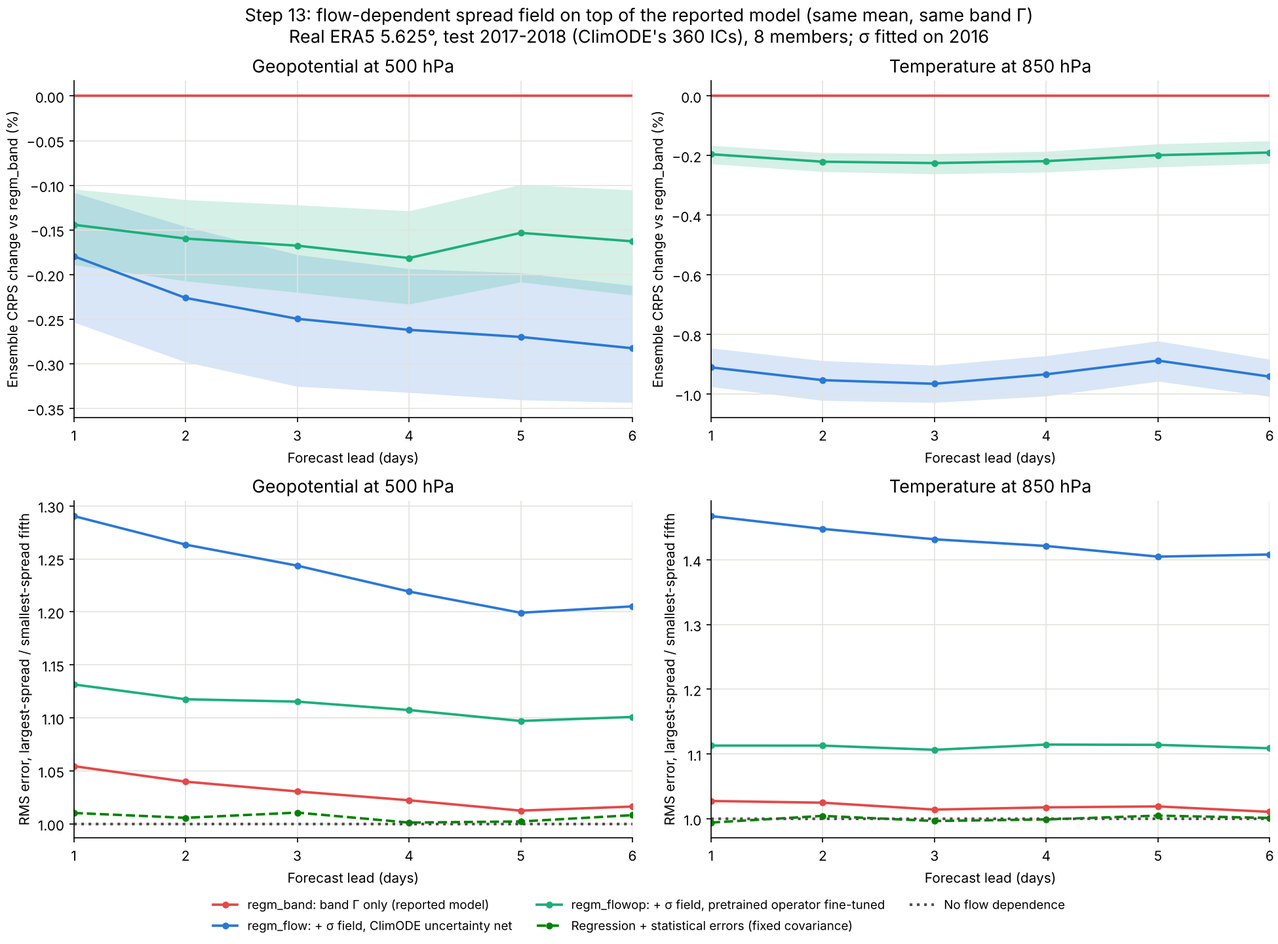
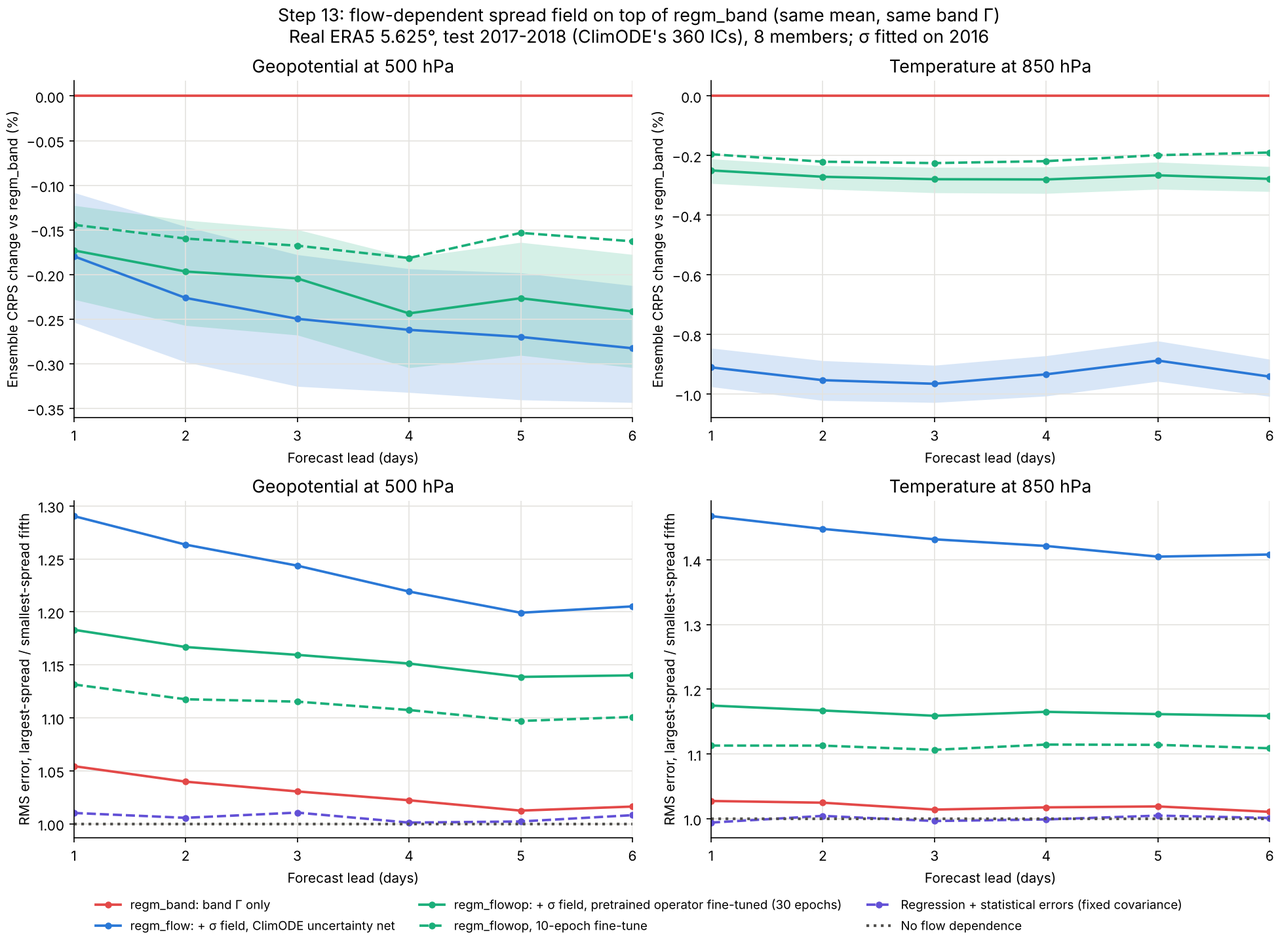
Step 13: flow-dependent spread field write-up, spread arms in the run script
docs/step13_sequence.md 4.3: regm_flow (ClimODE uncertainty net) and
regm_flowop (operator pretrained on regm_band, 10 and 30 epoch fine-tune)
against regm_band: CRPS -0.63 / -0.39 / -0.54 %, all 30 cells, error ratio
of the spread fifths z500 24 h 1.29 / 1.13 / 1.18 (regm_band 1.05).
run_step13_best.sh fits both spread fields in the calibration step
(SIGMA=1 default) and runs the flow-dependence diagnostic; runbook gains
the stage-by-stage train / calibrate / test commands.

Claude-Session: https://claude.ai/code/session_01M3qvwPDycdS2QFhYHMzru8

diff --git a/scripts/plot_step13_flowdep.py b/scripts/plot_step13_flowdep.py
@@ -4,7 +4,7 @@
     bottom   RMS error in the largest-spread fifth of cases / in the smallest-spread fifth (1 = the spread
              says nothing about the error), from scripts/diag_step13_flowdep.py --leads 24 48 72 96 120 144
 
-    python scripts/plot_step13_flowdep.py --score runs/step13/score_flowop.json \
+    python scripts/plot_step13_flowdep.py --score runs/step13/score_flowop30.json \
         --flowdep runs/step13/flowdep_all.json --out docs/step13
 """
 
@@ -24,11 +24,13 @@ from scripts.plot_step13 import GRID, LEADS_H, MUTED, SLOTS  # noqa: E402
 
 REF = "seqfm_dct_pinn_regm_band"
 LINES = [  # (arm, label, categorical slot)
-    ("seqfm_dct_pinn_regm_band", "regm_band: band Γ only (reported model)", 7),
+    ("seqfm_dct_pinn_regm_band", "regm_band: band Γ only", 7),
     ("seqfm_dct_pinn_regm_flow", "regm_flow: + σ field, ClimODE uncertainty net", 0),
-    ("seqfm_dct_pinn_regm_flowop", "regm_flowop: + σ field, pretrained operator fine-tuned", 2),
-    ("seqregress_pinn", "Regression + statistical errors (fixed covariance)", 5),
+    ("seqfm_dct_pinn_regm_flowop", "regm_flowop: + σ field, pretrained operator fine-tuned (30 epochs)", 2),
+    ("seqfm_dct_pinn_regm_flowop10", "regm_flowop, 10-epoch fine-tune", 2),
+    ("seqregress_pinn", "Regression + statistical errors (fixed covariance)", 6),
 ]
+DASHED = ("seqfm_dct_pinn_regm_flowop10", "seqregress_pinn")
 
 
 def main(argv=None):
@@ -47,11 +49,13 @@ def main(argv=None):
         vi = V.index(v)
         a_ = ax[0, col]
         a_.axhline(0, color=SLOTS[7], lw=1.8, label=LINES[0][1])
-        for arm, lab, slot in LINES[1:3]:
+        for arm, lab, slot in LINES[1:4]:
             if arm in boot:
                 b = {k: 100 * np.asarray(boot[arm]["crps"][k])[:, vi] / base[:, vi] for k in ("mean", "lo", "hi")}
-                a_.fill_between(days, b["lo"], b["hi"], color=SLOTS[slot], alpha=0.18, lw=0)
-                a_.plot(days, b["mean"], "-", color=SLOTS[slot], lw=1.8, marker="o", ms=4, label=lab)
+                if arm not in DASHED:
+                    a_.fill_between(days, b["lo"], b["hi"], color=SLOTS[slot], alpha=0.18, lw=0)
+                a_.plot(days, b["mean"], "--" if arm in DASHED else "-", color=SLOTS[slot], lw=1.8, marker="o", ms=4,
+                        label=lab)
         a_.set_title(name, fontsize=13)
         a_.set_ylabel("Ensemble CRPS change vs regm_band (%)")
         a_ = ax[1, col]
@@ -60,7 +64,7 @@ def main(argv=None):
             if arm in fd:
                 leads = [h for h in LEADS_H if f"{key}_{h}" in fd[arm]]
                 r = [fd[arm][f"{key}_{h}"]["bin_rmse"] for h in leads]
-                a_.plot(np.array(leads) / 24, [q[4] / q[0] for q in r], "--" if arm == "seqregress_pinn" else "-",
+                a_.plot(np.array(leads) / 24, [q[4] / q[0] for q in r], "--" if arm in DASHED else "-",
                         color=SLOTS[slot], lw=1.8, marker="o", ms=4, label=lab)
         a_.axhline(1, color=MUTED, ls=":", lw=2, label="No flow dependence")
         a_.set_title(name, fontsize=13)
@@ -72,7 +76,7 @@ def main(argv=None):
         for s_ in ("top", "right"):
             a_.spines[s_].set_visible(False)
     fig.legend(*ax[1, 0].get_legend_handles_labels(), loc="outside lower center", ncol=3, fontsize=9, frameon=False)
-    fig.suptitle("Step 13: flow-dependent spread field on top of the reported model (same mean, same band Γ)\n"
+    fig.suptitle("Step 13: flow-dependent spread field on top of regm_band (same mean, same band Γ)\n"
                  "Real ERA5 5.625°, test 2017-2018 (ClimODE's 360 ICs), 8 members; σ fitted on 2016", fontsize=13)
     os.makedirs(a.out, exist_ok=True)
     path = os.path.join(a.out, "fig_flowdep.png")

diff --git a/docs/step13_sequence.md b/docs/step13_sequence.md
@@ -64,7 +64,7 @@
 | 대조군 | 10단계 `PersistenceMBM` (a + b·평균 + c·x0) | 그대로 |
 | 점수 | 11단계 `climode_scores` (원저자 함수와 일치 확인됨), properscoring | u10/v10은 11단계처럼 u/v1000에서 2016년 격자점별 회귀 |
 
-스크립트: `scripts/run_step13_pinn.py`(1단계), `scripts/run_step13_seqfm.py`(2단계, `--basis dct|grid`, `--pinn`, `--save-ens`), `scripts/run_step13_operator.py`(3단계), `scripts/run_step13_guide.py`(4절 보정 가이드), `scripts/score_step13.py`(평가 축 전체), `scripts/compare_step13_climode.py`(ClimODE와 같은 초기장 짝 비교), `scripts/plot_step13.py`·`scripts/plot_step13_maps.py`·`scripts/plot_step13_system.py`(그림). 테스트: `tests/test_seqdct.py`, `tests/test_ens_guide.py`.
+스크립트: `scripts/run_step13_pinn.py`(1단계), `scripts/run_step13_seqfm.py`(2단계, `--basis dct|grid`, `--pinn`, `--save-ens`), `scripts/run_step13_operator.py`(3단계), `scripts/run_step13_guide.py`(4절 보정 가이드, `--flow-sigma`·`--flow-op` 퍼짐장 4.3, `pgcfm/flow_sigma.py`), `scripts/score_step13.py`(평가 축 전체), `scripts/compare_step13_climode.py`(ClimODE와 같은 초기장 짝 비교), `scripts/diag_step13_flowdep.py`(퍼짐의 흐름 의존성), `scripts/plot_step13.py`·`scripts/plot_step13_maps.py`·`scripts/plot_step13_system.py`·`scripts/plot_step13_flowdep.py`(그림). 테스트: `tests/test_seqdct.py`, `tests/test_ens_guide.py`, `tests/test_flow_sigma.py`. 처음부터 다시 만드는 방법: `docs/step13_reproduce.md`.
 
 학습 시스템 구조도: `docs/step13/fig_system.png` (1단계 PINN, 2단계 FM 학습·생성·H1 회귀, 3단계 에너지 가이드와 연산자, 추론 경로). 최고 앙상블(reg_band)이 쓰는 경로만 진하게 한 판: `docs/step13/fig_system_best.png` (연산자 경로, 학습된 가이드, H3·ODE 안의 P는 쓰지 않음).
 
@@ -287,7 +287,42 @@ Doob이 들어가는 곳은 lead 축입니다. 멤버 편차 에너지 e_k = |x_
 2. **회귀 멤버 위의 에너지 가이드는 5변수 CRPS가 가장 낮지만 이득은 u10/v10에서 옵니다.** z500 CRPS는 reg_band와 같습니다(144 h 0.0342). 소유자의 연산자 + 에너지 처리 조합은 바람 진단에서만 값이 있습니다.
 3. **대조군에서 FM 편차가 회귀 자신의 편차를 모든 lead·변수에서 이깁니다(360개 bootstrap, 30칸 모두 95% 구간이 0 위).** 다만 차이는 작습니다. 5변수 CRPS는 0.02697 → 0.02682(0.6 %), z500 144 h는 0.0345 → 0.0342입니다. 같은 닫힌 형 Γ를 씌우면 회귀 편차도 거의 보정되므로 CRPS 이득의 대부분은 Γ에서 오고, FM이 더하는 것은 **변수 간·시간 구조**입니다. 멤버 z–t 상관은 144 h 0.46 → 0.50(진짜 0.74), z500 24 h 지연 상관은 0.825 → 0.876입니다(진짜 0.84). 작은 규모 파워(1.7–6.7 대 2.2–6.5배)와 rank TV(0.076 대 0.075)는 같습니다.
 4. **MBM 평균에서도 같은 순서입니다.** regm_band가 대조군보다 5변수 CRPS 0.02596 → 0.02580, z500 144 h 0.0330 → 0.0327이고(직접 짝 bootstrap에서 30칸 모두 95% 구간이 0 아래, `runs/step13/score_regm_pair.json`), z–t 0.46 → 0.51, 지연 상관 0.830 → 0.883입니다.
-5. **보고할 모델은 regm_band입니다**(a + b·회귀 평균 + c·x(t), FM + PINN 편차, 닫힌 형 대역 Γ). 학습 구조는 `docs/step13/fig_system_best.png`에 있습니다. ClimODE와의 짝 비교는 5.2에 있습니다.
+5. **보고할 모델은 regm_band입니다**(a + b·회귀 평균 + c·x(t), FM + PINN 편차, 닫힌 형 대역 Γ). 학습 구조는 `docs/step13/fig_system_best.png`에 있습니다. ClimODE와의 짝 비교는 5.2에 있습니다. 그 위에 흐름 조건 퍼짐장을 더한 regm_flow가 확률 점수에서 더 낫습니다(4.3).
+
+### 4.3 흐름 조건 퍼짐장: 퍼짐이 사례를 따르게 하기 (소유자 선택 2026-10-26)
+
+7절 6번 진단에서 FM 퍼짐은 사례마다 표본 잡음 이상으로 변하지 않았고, 대역 Γ는 (lead, 변수, 대역)마다 상수라 이를 고칠 수 없습니다. 그래서 보정 단계에 사례·격자점마다 주류 오차의 크기를 예측하는 망을 넣었습니다(`pgcfm/flow_sigma.py`, `run_step13_guide.py --flow-sigma --flow-op`).
+
+    σ(x)  = σ_clim(lead, 변수, 격자점) · exp(g(x)),   g의 출력 헤드는 0으로 초기화 (처음엔 기후값 σ)
+    손실  = ClimODE의 Gaussian NLL (third_party/climode/utils.py: nll): log σ + (진짜 − μ*)² / (2σ²)
+    멤버  = μ* + f ⊙ (regm_band 멤버 − μ*),   f = σ(x) / ρ,   ρ² = 2016년 σ² 평균 (그래서 E₂₀₁₆ f² = 1)
+
+평균 μ*와 대역 Γ로 맞춘 평균 퍼짐은 그대로 두고, f가 퍼짐을 사례 사이에서 옮깁니다. 퍼짐 정답은 따로 없고 μ*의 실제 오차가 NLL로 σ를 가르칩니다. 2016년에 학습하고(초기장 5개 중 1개는 체크포인트용으로 뺌) FM, PINN, μ*, Γ는 모두 고정입니다. g는 두 가지입니다.
+
+- **regm_flow (1번)**: ClimODE의 불확실성 망(`Climate_ResNet_2D`, `Climate_encoder_free_uncertain`의 `noise_net`)을 [x(t), μ*, μ* − x(t), lead, 연중·하루 시각, ClimODE 위치·지형·해륙 특징]에 씁니다. 30 epoch.
+- **regm_flowop (소유자 아이디어)**: 소유자의 `EnsembleToDeterministic`을 에너지로 다듬은 2016년 regm_band 멤버 → 진짜(MSE, 40 epoch)로 먼저 학습한 뒤, 출력 헤드 앞 전역 특징에 새 σ 헤드를 붙입니다. 연산자를 고정하고 헤드만 30 epoch, 그다음 전체를 학습률 1e-4로 10 또는 30 epoch 학습합니다. 학습 구조: `docs/step13/fig_system_sigma.png`.
+
+결과 (시험 2017–2018, 360개, 멤버 8, `runs/step13/score_flowop30.json`, `flowdep_all.json`):
+
+| 팔 | 검증 NLL (시작 0.0111) | 5변수 CRPS | regm_band 대비 | z500 / t850 / t2m / u10 / v10 (%) | 오차 비 z500 24 / 144 h | 오차 비 t850 24 / 144 h | 사례 평균 퍼짐–오차 상관 (72 h) | rank TV z500 24 / 144 h |
+| --- | --- | --- | --- | --- | --- | --- | --- | --- |
+| regm_band | | 0.02580 | | | 1.05 / 1.02 | 1.03 / 1.01 | −0.02 | 0.088 / 0.100 |
+| **regm_flow** | **−0.029** | **0.02564** | **−0.63 %** | −0.24 / **−0.93** / **−1.18** / −0.71 / −0.50 | **1.29 / 1.21** | **1.47 / 1.41** | **0.34** | **0.076 / 0.092** |
+| regm_flowop, 미세조정 10 epoch | −0.011 | 0.02570 | −0.39 % | −0.16 / −0.21 / −0.76 / −0.53 / −0.37 | 1.13 / 1.10 | 1.11 / 1.11 | 0.21 | 0.086 / 0.096 |
+| regm_flowop, 미세조정 30 epoch | −0.020 | 0.02566 | −0.54 % | −0.21 / −0.27 / −1.01 / **−0.73 / −0.55** | 1.18 / 1.14 | 1.17 / 1.16 | 0.27 | 0.082 / 0.094 |
+
+오차 비는 퍼짐이 가장 큰 사례 20%의 RMS 오차를 가장 작은 20%의 것으로 나눈 값입니다(격자점별로 정규화, 1이면 퍼짐이 오차에 대해 아무것도 알려 주지 않음). 사례 평균 상관은 2017년 180개 초기장에서 영역 평균 퍼짐과 RMSE의 상관입니다.
+
+읽은 것:
+
+1. **퍼짐이 흐름을 따르기 시작했습니다.** regm_band와 원래 FM은 오차 비가 1.01–1.07로 평평하고, 사례 평균 상관이 0 근처입니다. regm_flow는 z500 24 h 1.29, t850 1.47이고 상관이 0.34입니다. 격자점별 사례 간 퍼짐 변동계수도 표본 잡음 수준 0.27에서 0.31–0.36으로 올랐습니다.
+2. **CRPS는 모든 칸에서 좋아집니다.** 세 팔 모두 30칸(lead × 변수) 전부 95% bootstrap 구간이 0 아래입니다. 크기는 작습니다(5변수 0.4–0.6 %). 평균이 같으므로 RMSE와 ClimODE 짝 비교의 RMSE는 regm_band와 똑같고, 짝 비교 CRPS 차이도 0.0001 안쪽입니다. rank 히스토그램은 평평해집니다(z500 24 h TV 0.088 → 0.076).
+3. **연산자 버전은 같은 곳에서 퍼짐을 키우지만 진폭이 작습니다.** 배율 지도(`fig_flow_fm.png`)에서 두 망 모두 겨울 반구 폭풍로에서 f > 1, 여름 반구에서 f < 1입니다. 미세조정을 10 → 30 epoch로 늘리자 NLL(−0.011 → −0.020), 오차 비(1.13 → 1.18), CRPS(−0.39 → −0.54 %)가 모두 좋아졌지만 여전히 regm_flow보다 약합니다. 차이는 t850에서 가장 큽니다(−0.27 대 −0.93 %). 연산자는 8 모드 FNO라 매끄럽고 지형·해륙 특징을 보지 않습니다. 반면 u10/v10은 연산자가 조금 낫습니다. 4.2에서 연산자가 u10/v10만 고친 것과 같은 방향입니다.
+4. **아직 퍼짐 변동이 오차 변동보다 작습니다.** 사례 평균 퍼짐의 변동계수는 regm_flow 0.05인데 RMSE는 0.086입니다. 퍼짐 쪽 오분위(0.57 → 1.53)는 오차 쪽(0.89 → 1.14)보다 넓은데, 멤버 8개의 표본 잡음(0.64 → 1.40)이 섞여 있기 때문입니다.
+5. **남반구의 줄무늬는 격자 인공물이 아닙니다.** 2017-08-29 사례의 f는 남위 31–37°에서 동서 파수 7로 출렁이고, 같은 파수인 μ* − x(t)와 상관이 −0.43(180개 평균), 실제 |오차|와는 +0.19입니다. 망이 예보된 파동(골이 깊어지는 곳)에 반응한 것입니다.
+6. **확률 예보로는 regm_flow가 가장 좋은 모델입니다**(regm_band + ClimODE 망 σ 장). 결정론 평균은 regm_band와 같습니다. `scripts/run_step13_best.sh`는 기본으로 regm_band, regm_flow, regm_flowop(30 epoch)를 함께 만듭니다.
+
+그림: `docs/step13/fig_flowdep.png`(lead별 CRPS 변화와 오차 비), `docs/step13/fig_flow_fm.png`(가장 어려운·쉬운 2017년 사례의 퍼짐 지도와 배율 f, 사례별 퍼짐–RMSE 산점도), `docs/step13/fig_system_sigma.png`(학습 구조).
 
 ## 5. ClimODE와의 비교
 
@@ -341,6 +376,9 @@ ClimODE 공개 체크포인트를 원저자 코드로 돌린 11단계 재현(각
 
 - `docs/step13/fig_maps_z.png`, `fig_maps_t.png`: ClimODE 첫 2017 초기장(2017-01-01 12 UTC)의 24 / 72 / 144 h. 진짜, 회귀 평균, 두 에너지 제어(닫힌 형 Γ, 학습된 가이드)의 멤버 1과 퍼짐, 평균 오차, 같은 초기장의 ClimODE 오차와 σ(퍼짐 색 척도 공유).
 - `docs/step13/fig_basis.png`: DCT 기저 대 격자 대조군(3.5). z500 CRPS, 멤버 24 h 지연 상관, 작은 규모 파워, 대역별 퍼짐/오차 에너지.
+- `docs/step13/fig_flow_fm.png` (`--only flow`): 흐름 조건 퍼짐장(4.3)이 FM 멤버에 하는 일. 2017년에 μ* 오차가 가장 큰 사례와 가장 작은 사례의 z500 72 h |오차|, 원래 FM, regm_band, regm_flow, regm_flowop 퍼짐과 배율 f, 그리고 180개 사례의 영역 평균 퍼짐–RMSE 산점도.
+- `docs/step13/fig_flowdep.png` (`scripts/plot_step13_flowdep.py`): regm_band 대비 CRPS 변화(95% 구간)와 퍼짐 오분위 오차 비를 lead별로.
+- `docs/step13/fig_system_sigma.png` (`scripts/plot_step13_system.py --sigma`): regm_flowop의 학습 구조(사전학습, 새 σ 헤드 미세조정, 적용).
 - `docs/step13/fig_energy.png`: z500 멤버 편차의 반지름 DCT 스펙트럼(가이드와 같은 직교 2-D DCT, 2017년 180개, × (1 + 1/M))과 평균 오차의 스펙트럼, 그리고 실현 Γ = √(보정 후 / 원래 FM 편차 에너지). 닫힌 형 reg_band의 실현 Γ는 가이드 JSON의 닫힌 형 Γ와 소수 셋째 자리까지 같아서 스펙트럼 계산이 가이드의 기저와 일치함을 확인했습니다.
 
 읽은 것:
@@ -360,6 +398,7 @@ ClimODE 공개 체크포인트를 원저자 코드로 돌린 11단계 재현(각
     - 격자점마다 잰 퍼짐의 사례 간 변동계수가 FM 0.272–0.274(DCT, 격자 모두)입니다. 공분산이 고정된 회귀 + 통계 오차의 0.271과 같은데, 이 값은 멤버 8개의 표본 잡음(이론값 1/√14 = 0.27)입니다. 표본 잡음을 빼면 FM 퍼짐의 실제 사례 간 변동은 z500 24 h에 약 4 %, 144 h에 거의 0입니다.
     - 같은 격자점에서 |평균 오차|의 변동계수는 0.77–0.79입니다. 가우스 오차라면 오차 크기가 사례마다 약 12–18 % 변한다는 뜻입니다.
     - 퍼짐을 격자점 평균으로 나눠 다섯 구간으로 자르면, 퍼짐은 0.64에서 1.40으로 커지지만 오차는 0.98에서 1.05로 거의 그대로입니다(z500 24 h, 다른 lead는 1.00–1.01).
-    - 그래서 FM은 위치·lead별 평균 퍼짐은 배웠지만 조건(과거 세 상태)에 따라 퍼짐을 바꾸지 못하고, 상수 Γ로는 이를 고칠 수 없습니다. 다음 시험은 둘입니다. 하나는 보정 단계에 흐름 조건 퍼짐 장을 넣는 것입니다(ClimODE의 σ 헤드처럼 x(t)와 μ에서 격자점별 배율을 2016년에 학습해 Γ에 곱함). 다른 하나는 FM을 더 오래 학습하면서 이 변동계수를 진행 지표로 쓰는 것입니다.
-7. **FM 편차의 이득이 작다(4.2).** 같은 닫힌 형 Γ를 씌우면 회귀 자신의 편차도 거의 보정되어, FM이 CRPS에서 이기는 폭은 0.6 % 안팎입니다(구간은 0 위). FM의 값은 변수 간·시간 구조(z–t, 지연 상관)에 있으므로, 논문에서는 이 구조 지표와 대조군을 함께 보고해야 합니다. 퍼짐이 흐름에 의존하지 않는 문제(6)를 풀면 이 폭이 커지는지가 다음 시험입니다.
+    - 그래서 FM은 위치·lead별 평균 퍼짐은 배웠지만 조건(과거 세 상태)에 따라 퍼짐을 바꾸지 못하고, 상수 Γ로는 이를 고칠 수 없습니다. 다음 시험은 둘이었습니다. 하나는 보정 단계에 흐름 조건 퍼짐 장을 넣는 것이고, 다른 하나는 FM을 더 오래 학습하면서 이 변동계수를 진행 지표로 쓰는 것입니다.
+    - **첫째를 했습니다(4.3).** regm_flow에서 오차 비가 z500 24 h 1.05 → 1.29, t850 1.03 → 1.47로 커지고 CRPS가 30칸 모두 좋아졌습니다. 다만 퍼짐장은 FM 바깥의 보정이라 FM 자체의 약점은 남습니다. 사례 평균 퍼짐 변동(0.05)도 오차 변동(0.086)보다 작습니다. 둘째(FM 학습량, GPU)는 아직입니다.
+7. **FM 편차의 이득이 작다(4.2).** 같은 닫힌 형 Γ를 씌우면 회귀 자신의 편차도 거의 보정되어, FM이 CRPS에서 이기는 폭은 0.6 % 안팎입니다(구간은 0 위). FM의 값은 변수 간·시간 구조(z–t, 지연 상관)에 있으므로, 논문에서는 이 구조 지표와 대조군을 함께 보고해야 합니다. 퍼짐장(4.3)을 더해도 CRPS 이득은 0.4–0.6 %로 작아서, 이 폭은 여전히 구조 지표로 보고해야 합니다.
 

diff --git a/docs/step13_reproduce.md b/docs/step13_reproduce.md
@@ -1,6 +1,6 @@
-# 13단계 best model(regm_band) 직접 학습하고 실행하기
+# 13단계 best model 직접 학습하고 실행하기
 
-보고 모델 regm_band(`docs/step13/fig_system_best.png`)를 데이터 내려받기부터 점수까지 다시 만드는 방법입니다. 결과와 해석은 `docs/step13_sequence.md` 4.2절과 5절에 있습니다.
+보고 모델 regm_band(`docs/step13/fig_system_best.png`)와 그 위에 흐름 조건 퍼짐장을 더한 regm_flow, regm_flowop(`docs/step13/fig_system_sigma.png`)를 데이터 내려받기부터 점수까지 다시 만드는 방법입니다. 확률 점수가 가장 좋은 것은 regm_flow입니다. 결과와 해석은 `docs/step13_sequence.md` 4.2, 4.3, 5절에 있습니다.
 
 ## 1. 코드와 환경
 
@@ -26,6 +26,7 @@
 | `OUT` | `runs/step13_best` | 체크포인트, 앙상블, 점수 |
 | `THREADS` | 4 | CPU 스레드 |
 | `CONTROL=1` | 끔 | 논문 대조군: 같은 평균과 Γ를 회귀 자신의 편차에 씌운 팔도 만들고 함께 채점 |
+| `SIGMA=0` | 켬 (1) | 흐름 조건 퍼짐장 팔(regm_flow, regm_flowop)을 빼고 regm_band만 만듦 |
 | `CLIMODE=1` | 끔 | ClimODE 공개 체크포인트를 시험 해마다 첫 8개 초기장에서 돌리고 같은 초기장으로 짝 비교 (초기장 쌍당 약 18분, 모두 약 2.5시간) |
 | `SMOKE=1` | 끔 | 반복 2회, 해마다 초기장 6개: 전체 사슬이 돌아가는지만 확인 (데이터가 있으면 약 15분, 수치는 의미 없음) |
 
@@ -39,12 +40,43 @@
 | 1. PINN | `run_step13_pinn.py` (project 목적, 1000 반복) | `pinn_project.pt/.json`, 정규화 `stats/` | 47분 |
 | 2a. FM | `run_step13_seqfm.py --basis dct --pinn … --save-ens` (3000 반복, 멤버 8) | `seqfm_dct.pt`, `seqfm_dct_pinn_ens_{2016,2017,2018}.npz` | 학습 70분 + 생성 해마다 30–50분 |
 | 2b. 회귀 | `run_step13_seqfm.py --model regress --pinn … --save-ens` | `seqregress.pt`, `seqregress_pinn_ens_*.npz` | 학습 20분 + 생성 해마다 약 5분 |
-| 3. 보정 | `run_step13_guide.py --ens seqfm_dct_pinn --reg seqregress_pinn --reg-mbm --save-arms regm_band` | `seqfm_dct_pinn_regm_band_ens_{2017,2018}.npz`, `guide_*.json` (Γ, 대역 에너지) | 약 26분 |
-| 4. 채점 | `score_step13.py --ref seqregress_pinn --arms seqregress_pinn seqfm_dct_pinn_regm_band` | `score_best.json` | 약 5분 |
+| 3. 보정 | `run_step13_guide.py --ens seqfm_dct_pinn --reg seqregress_pinn --reg-mbm --flow-sigma --flow-op --sigma-full-epochs 30 --save-arms regm_band regm_flow regm_flowop` | `seqfm_dct_pinn_regm_{band,flow,flowop}_ens_{2017,2018}.npz`, `guide_*.json` (Γ, 대역 에너지, σ 학습 기록) | 약 1시간 10분 (`SIGMA=0`이면 약 26분) |
+| 4. 채점 | `score_step13.py --ref seqregress_pinn --arms seqregress_pinn seqfm_dct_pinn_regm_band …regm_flow …regm_flowop` | `score_best.json` | 약 5분 |
+| 5. 흐름 의존성 | `diag_step13_flowdep.py --leads 24 48 72 96 120 144` | `flowdep.json` (퍼짐 변동계수, 퍼짐 오분위별 오차) | 1분 |
+| 6. 퍼짐장 비교 | `score_step13.py --ref …regm_band`, `plot_step13_flowdep.py` (`SIGMA=1`일 때) | `score_sigma.json`, `fig/fig_flowdep.png` | 약 4분 |
 
-학습은 2012–2015년, 보정(a, b, c와 Γ)은 2016년, 시험은 2017–2018년 ClimODE 초기장 360개입니다. 데이터 내려받기를 빼고 약 5–6시간입니다.
+학습은 2012–2015년, 보정(a, b, c, Γ, σ 장)은 2016년, 시험은 2017–2018년 ClimODE 초기장 360개입니다. 데이터 내려받기를 빼고 약 6–7시간입니다.
 
-## 4. 학습을 건너뛰고 받은 가중치로 실행
+## 4. 학습과 시험을 나눠서 실행하기
+
+한 번에 돌리는 대신 단계마다 직접 실행할 수 있습니다. 스크립트가 하는 것과 같은 명령입니다.
+
+    D=data/era5_5p625; O=runs/step13_best; K=$D/kai6h; E=$D/era5_data
+
+    # 데이터 (2012-2018 6시간 KAI + ClimODE 5변수, 2006-2011은 기후값용)
+    python scripts/wb2_to_kai.py --out $D --all-hours --years 2012 2013 2014 2015 2016 2017 2018
+    python scripts/wb2_to_kai.py --out $D --years 2006 2007 2008 2009 2010 2011
+
+    # 학습 (2012-2015 학습, 2016 검증)
+    python scripts/run_step13_pinn.py --kai $K --era5 $E --out $O                       # 1단계 PINN, 고정용
+    python scripts/run_step13_seqfm.py --kai $K --era5 $E --out $O --basis dct \
+        --pinn $O/pinn_project.pt --save-ens --resume-ens                                # 2단계 FM + 2016-2018 앙상블
+    python scripts/run_step13_seqfm.py --kai $K --era5 $E --out $O --model regress \
+        --pinn $O/pinn_project.pt --save-ens --resume-ens                                # 회귀 (평균의 출처)
+
+    # 보정 (2016에 맞추고 2017-2018에 적용): regm_band, regm_flow, regm_flowop
+    python scripts/run_step13_guide.py --ens $O/seqfm_dct_pinn --era5 $E --out $O --reg $O/seqregress_pinn \
+        --reg-mbm --flow-sigma --flow-op --sigma-full-epochs 30 --save-arms regm_band regm_flow regm_flowop
+
+    # 시험 (2017-2018 ClimODE 초기장 360개)
+    python scripts/score_step13.py --era5 $E --out $O/score_best.json --ref $O/seqregress_pinn \
+        --arms $O/seqregress_pinn $O/seqfm_dct_pinn_regm_band $O/seqfm_dct_pinn_regm_flow $O/seqfm_dct_pinn_regm_flowop
+    python scripts/diag_step13_flowdep.py --runs $O --leads 24 48 72 96 120 144 \
+        --arms seqfm_dct_pinn seqfm_dct_pinn_regm_band seqfm_dct_pinn_regm_flow seqfm_dct_pinn_regm_flowop
+
+`run_step13_seqfm.py`는 한 번 실행에서 학습과 앙상블 생성을 함께 합니다. 출력 폴더에 `seqfm_dct.pt`(회귀는 `seqregress.pt`)가 있으면 학습을 건너뛰고 그 가중치로 생성만 하므로, 학습만 다시 하고 싶으면 그 파일을 지우고, 시험만 하고 싶으면 아래 5절처럼 가중치를 넣어 두면 됩니다. 보정 단계는 학습된 가중치를 따로 남기지 않고 매번 2016년에서 a, b, c, Γ, σ 장을 다시 맞춥니다.
+
+## 5. 학습을 건너뛰고 받은 가중치로 실행
 
 프로젝트 파일의 `step13/step13_checkpoints.zip`(95 MB)에 이 문서의 수치를 낸 가중치가 있습니다. `pinn_project.pt`, `pinn_project.json`, `seqfm_dct.pt`, `seqregress.pt`, `stats/`입니다. 출력 폴더에 풀고 실행하면 세 학습 단계가 가중치를 불러오고, 생성·보정·채점만 돌아갑니다(약 3시간).
 
@@ -53,7 +85,7 @@
 
 생성 잡음은 고정 seed에서 해마다 같은 순서로 나오므로, 같은 가중치로 모든 초기장을 돌리면 이 문서와 같은 앙상블이 나옵니다. 받은 가중치로 돌린 확인 실행에서 2016년 FM과 회귀 멤버가 원래 실행과 비트 단위로 같았습니다. `SMOKE=1`처럼 초기장 수를 줄이면 다음 해의 잡음 순서가 바뀌어 같지 않습니다. 처음부터 학습하면 seed는 같지만 스레드 수나 라이브러리 버전에 따라 학습 결과가 조금 달라질 수 있습니다.
 
-## 5. 결과 확인
+## 6. 결과 확인
 
 `$OUT/score.log`의 마지막 줄들에 팔마다 z500 CRPS, SSR, 작은 규모 파워, 멤버 z–t 상관이 나옵니다. 이 문서의 수치(360개 초기장)는 다음과 같습니다.
 
@@ -61,11 +93,16 @@
 | --- | --- | --- | --- | --- |
 | `seqregress_pinn` (회귀 + 통계 오차) | 0.0109 / 0.0230 / 0.0351 | 244 / 528 / 817 | 1.06–1.34 | 0.41 |
 | `seqfm_dct_pinn_regm_band` (보고 모델) | 0.0108 / 0.0226 / 0.0327 | 244 / 522 / 778 | 1.13–1.21 | 0.51 |
+| `seqfm_dct_pinn_regm_flow` (+ ClimODE 망 σ 장) | 0.0108 / 0.0226 / 0.0326 | 244 / 522 / 778 | 1.14–1.23 | 0.51 |
+| `seqfm_dct_pinn_regm_flowop` (+ 연산자 σ 장, 30 epoch) | 0.0108 / 0.0226 / 0.0327 | 244 / 522 / 778 | 1.14–1.22 | 0.51 |
+
+5변수 CRPS는 regm_band 0.02580, regm_flow 0.02564(−0.63 %), regm_flowop 0.02566(−0.54 %)입니다. 퍼짐장의 효과는 CRPS보다 `flowdep.json`에서 잘 보입니다. 퍼짐이 가장 큰 사례 20%와 가장 작은 20%의 오차 비(`bin_rmse` 마지막 / 처음)가 z500 24 h에서 regm_band 1.05, regm_flow 1.29, regm_flowop 1.18입니다.
 
 `score_best.json`의 `bootstrap_vs_seqregress_pinn`에는 회귀 대비 CRPS 차이와 95% 구간이 lead·변수마다 있습니다. 그래프는 기존 그림 스크립트로 그릴 수 있습니다(`docs/step13_sequence.md` 6절의 명령에 `--scores $OUT/score_best.json`).
 
-## 6. 알아 둘 것
+## 7. 알아 둘 것
 
 - 저장된 앙상블에는 ClimODE의 5변수(z500, t850, t2m, u10, v10)만 24 h 간격으로 들어 있습니다. 66채널 전체 멤버가 필요하면 `run_step13_seqfm.py`에서 저장할 변수를 늘려야 합니다.
-- 보정 단계는 매번 2016년에서 a, b, c와 Γ를 닫힌 형으로 다시 맞춥니다(학습된 가중치가 따로 없음). 다른 해에 적용하려면 그 해의 FM·회귀 앙상블을 같은 방법으로 만든 뒤 `--test-years`를 바꾸면 됩니다.
+- 보정 단계는 매번 2016년에서 a, b, c와 Γ를 닫힌 형으로, σ 장 망은 NLL로 다시 맞춥니다(학습된 가중치가 따로 없음). 다른 해에 적용하려면 그 해의 FM·회귀 앙상블을 같은 방법으로 만든 뒤 `--test-years`를 바꾸면 됩니다.
+- σ 장 망은 seed가 고정되어 있지만, 스레드 수에 따라 학습 결과가 조금 달라질 수 있습니다. 이 문서의 regm_flow, regm_flowop 수치는 4스레드 실행입니다.
 - GPU에서 더 오래 학습하려면(약점 1번, FM 학습량) 학습 스크립트에 장치 옵션을 먼저 넣어야 합니다. 라이브러리(`pgcfm/seqdct.py`)는 대부분 입력 텐서의 장치를 따르지만, 스크립트가 CPU로 고정되어 있습니다.

diff --git a/README.md b/README.md
@@ -25,7 +25,8 @@ built on the KAI-α ERA5 data contract (1.5°, 121×240, 67 channels).
 | `scripts/run_step2_cfm.py`, `scripts/step3_residual_experiment.py`, `scripts/run_step4_pgcfm.py`, `scripts/eval_synthetic_demo.py` | Per-step small experiments (docs/) |
 | `docs/RUN_ON_GPU.md` | How to train and evaluate on the GPU server |
 | `pgcfm/seqdct.py`, `pgcfm/ens_guide.py` | Step 13: sequence 3-D DCT, PINN projector, sequence FM / regression, band-energy calibration guide |
-| `scripts/run_step13_best.sh` | Step 13 reported ensemble (regm_band) end to end: ERA5 download, PINN, FM, regression, calibration, scores |
+| `pgcfm/flow_sigma.py` | Step 13: flow-dependent spread field on the calibrated members (ClimODE's uncertainty net, or the pretrained operator fine-tuned into sigma) |
+| `scripts/run_step13_best.sh` | Step 13 reported ensembles (regm_band, regm_flow, regm_flowop) end to end: ERA5 download, PINN, FM, regression, calibration, spread field, scores |
 | `docs/step13_reproduce.md` | How to run step 13 yourself, with timings and the expected scores |
 | `docs/` | Per-step implementation notes and weakness analysis (`docs/step4_pgcfm.md`: coupling results) |
 
